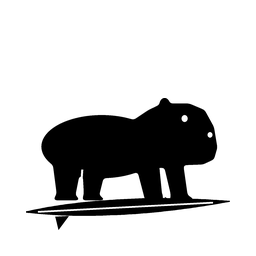
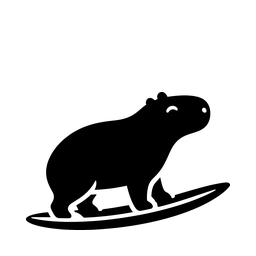
v5.59.4 «Билибин»: капибара на сёрфе — картинка владельца, сёрф снова в круге

Changed region(s): [[0.0938, 0.3438, 0.9062, 0.9062]]

diff --git a/app/lib/widgets/capy_refresh.dart b/app/lib/widgets/capy_refresh.dart
@@ -1,7 +1,7 @@
 // Капибара, пока грузится (владелец, 09.10, пункт 26 — «все это»): на месте
 // крутилки при первой загрузке экрана — сцена с подписью (`CapyLoading`);
 // потянул экран вниз — маленькая капибара сверху, без плашки (`CapyRefresh`).
-// Сцены идут по кругу: ноутбук, лампа, мяч, мандарин; ночью — спит.
+// Сцены идут по кругу: сёрф, ноутбук, лампа, мяч, мандарин; ночью — спит.
 import 'dart:math' as math;
 
 import 'package:flutter/material.dart';
@@ -23,8 +23,7 @@ const sceneText = {
 
 /// Какая сцена следующая: ночью — сон, в остальное время — по кругу.
 class CapyScenes {
-  // сёрф пока не в круге: владелец (09.10) нарисует капибару на доске в ChatGPT
-  static const day = [CapyScene.laptop, CapyScene.lamp, CapyScene.ball, CapyScene.mandarin];
+  static const day = [CapyScene.surf, CapyScene.laptop, CapyScene.lamp, CapyScene.ball, CapyScene.mandarin];
   static int _next = math.Random().nextInt(day.length);
 
   static CapyScene next(int hour) {

diff --git a/app/test/capy_refresh_test.dart b/app/test/capy_refresh_test.dart
@@ -33,14 +33,14 @@ Finder get card => find.byKey(const Key('capy:refresh'));
 
 void main() {
   test('сцены идут по кругу, ночью — сон', () {
-    CapyScenes.startAt(CapyScene.laptop);
+    CapyScenes.startAt(CapyScene.surf);
     expect(
       [for (var i = 0; i < 6; i++) CapyScenes.next(14)],
-      [CapyScene.laptop, CapyScene.lamp, CapyScene.ball, CapyScene.mandarin, CapyScene.laptop, CapyScene.lamp],
+      [CapyScene.surf, CapyScene.laptop, CapyScene.lamp, CapyScene.ball, CapyScene.mandarin, CapyScene.surf],
     );
     expect(CapyScenes.next(2), CapyScene.sleep);
     expect(CapyScenes.next(23), CapyScene.sleep);
-    expect(CapyScenes.next(5), CapyScene.ball); // ночь круг не сдвигает
+    expect(CapyScenes.next(5), CapyScene.laptop); // ночь круг не сдвигает
   });
 
   testWidgets('потянул — капибара на сёрфе, пока грузится; пришло — уехала', (t) async {

diff --git a/tools/changelog.py b/tools/changelog.py
@@ -39,6 +39,7 @@ FIGURES = {
     "Айвазовский": "волны: капибара на сёрфе при обновлении экрана",
     "Норштейн": "ожидание: капибара, пока грузится (как ёжик в тумане)",
     "Чуковский": "временно убрать лишнее: сёрф ждёт новую картинку",
+    "Билибин": "иллюстрация: новая картинка капибары",
     "Грот": "правописание: названия файлов по-русски, а не транслитом",
     "Ломоносов": "институт, университет, «для всех»",
     "Шульгин": "передача полномочий, роли, права",

diff --git a/CHANGELOG.md b/CHANGELOG.md
@@ -2677,6 +2677,12 @@ Run workflow) — **APK для Android** и **IPA без подписи для i
 лампа, мяч, мандарин, ночью сон. Сама сцена с волнами в коде осталась:
 придёт картинка — заменить `surf.png` и вернуть сёрф в `CapyScenes.day`.
 
+### v5.59.4 «Билибин»
+Капибара на сёрфе — новая картинка: владелец нарисовал её в ChatGPT по лого
+и позам (09.10), фон вырезан, силуэт-маска `surf.png` (приложение и
+WebApp). Сёрф вернулся в круг сцен загрузки: сёрф, ноутбук, лампа, мяч,
+мандарин, ночью сон.
+
 ## Как будет дальше
 
 Новую версию = новый тег `vX.Y.Z` на нужном коммите + запись сюда.
